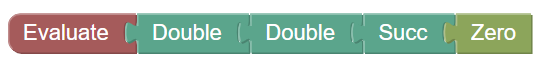
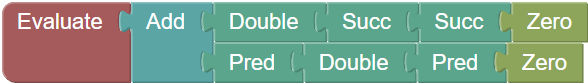
Version ready for review

diff --git a/assets/js/types-and-programming-languages.js b/assets/js/types-and-programming-languages.js
@@ -321,8 +321,9 @@ const workspace = Blockly.inject('blocklyDiv', {toolbox: toolbox});
 // paste the JSON obtained by
 // copy(JSON.stringify(Blockly.serialization.workspaces.save(workspace)))
 const saves = {
+  "load": {"blocks":{"languageVersion":0,"blocks":[{"type":"tpl_typecheck","id":"f!{vc~S?{oN/AN9#-WEd","x":36,"y":43,"inputs":{"PROG":{"block":{"type":"tpl_false","id":"27/Ta`n|}V*B)s7Zr}^V"}}}},{"type":"tpl_typecheck","id":"}jBAI,)Z[-h9^YMj`d.C","x":40,"y":89,"inputs":{"PROG":{"block":{"type":"tpl_succ","id":"Wg.KkAfKbDnbO*$Ju_w)","inputs":{"VALUE":{"block":{"type":"tpl_zero","id":"/lso.r/,iQDh6r/5gmvL"}}}}}}},{"type":"tpl_typecheck","id":"Hp}wuF~]hWLt;*KEhl`?","x":35,"y":137,"inputs":{"PROG":{"block":{"type":"tpl_pred","id":"Kk1[+NpaH;A}IuOQ-KX,","inputs":{"VALUE":{"block":{"type":"tpl_false","id":"eE26RO)YKHQ%Y^MKIx};"}}}}}}},{"type":"tpl_typecheck","id":"/Jw^Q4s6;dX_E%4Mi68P","x":36,"y":189,"inputs":{"PROG":{"block":{"type":"tpl_add","id":"o#6QF^=-D2A2YL[%!+$.","inputs":{"LEFT":{"block":{"type":"tpl_true","id":"w9=@wIVtNi,B=,F7Z:Gy"}},"RIGHT":{"block":{"type":"tpl_zero","id":"|]:[g[PLex#-:KZ(ipHC"}}}}}}},{"type":"tpl_typecheck","id":"I}e~5o62(l[|9{Mo{6~N","x":36,"y":265,"inputs":{"PROG":{"block":{"type":"tpl_ifthenelse","id":"7@@Kk/))h*cE=X9cPt?z","inputs":{"COND":{"block":{"type":"tpl_iszero","id":"@.?y9L(p(syKv6@{p$In","inputs":{"VALUE":{"block":{"type":"tpl_zero","id":",%8_]Q-:eG}?RBI2-Mv8"}}}}},"THEN":{"block":{"type":"tpl_true","id":"O.%EqhW=guWa/}_@VgdO"}},"ELSE":{"block":{"type":"tpl_false","id":"v2HUJJ6V;vD.mXgM@Q6R"}}}}}}},{"type":"tpl_typecheck","id":"fGln6C:MQ^KV,q6^aP-*","x":36,"y":370,"inputs":{"PROG":{"block":{"type":"tpl_ifthenelse","id":"$F%f0%9qx7ZuzYXGNo|m","inputs":{"COND":{"block":{"type":"tpl_pred","id":"rcf`:vl8:5muZ/`Z2R6/","inputs":{"VALUE":{"block":{"type":"tpl_zero","id":"{{*~+KyR_oj(QcEe~DQx"}}}}},"THEN":{"block":{"type":"tpl_zero","id":"+?LdO~Y-p/tJ{aUIk?vf"}},"ELSE":{"block":{"type":"tpl_zero","id":"s(%_?Jh+wkF`7vAV-PBQ"}}}}}}}]}},
   "img-intro":  {"blocks":{"languageVersion":0,"blocks":[{"type":"tpl_typecheck","id":"g[R@z-}PCuS^Y?5zH=Ms","x":61,"y":109,"inputs":{"PROG":{"block":{"type":"tpl_ifthenelse","id":"ZWLi_~J,DIp1f*Nq9(sj","inputs":{"COND":{"block":{"type":"tpl_pred","id":"_F3vx.z_#:ML)J}X:7;t","inputs":{"VALUE":{"block":{"type":"tpl_false","id":"3cV;]X%;!C=8hIM-jvNw"}}}}},"THEN":{"block":{"type":"tpl_zero","id":"%/0xQ~W.z!ss!D{|lA3^"}},"ELSE":{"block":{"type":"tpl_iszero","id":"koB,vwdW]eVDIe,+1f!;","inputs":{"VALUE":{"block":{"type":"tpl_succ","id":"#mLOw6)QZ.EJ^Gr;S!0,","inputs":{"VALUE":{"block":{"type":"tpl_true","id":"3F4?/@wX2Q|NGLYMho.%"}}}}}}}}}}}}}]}},
-  "example1": {"blocks":{"languageVersion":0,"blocks":[{"type":"tpl_evaluate","id":"0!AojB:vPD;(VTk4PZ[;","x":36,"y":36,"inputs":{"PROG":{"block":{"type":"tpl_double","id":"k~vQB/7{99jlBaP~C|:0","inputs":{"VALUE":{"block":{"type":"tpl_double","id":"2XfG2m[+0$1NGk;q;THc","inputs":{"VALUE":{"block":{"type":"tpl_succ","id":":Rp*[o2%YV:)!Iq3cl=x","inputs":{"VALUE":{"block":{"type":"tpl_zero","id":"K,Zsn!RDuHfg#wQnHua="}}}}}}}}}}}}}]}},
+  "example1": {"blocks":{"languageVersion":0,"blocks":[{"type":"tpl_evaluate","id":"0!AojB:vPD;(VTk4PZ[;","x":24,"y":43,"inputs":{"PROG":{"block":{"type":"tpl_add","id":"61[SIVubQGcX@RGbL._R","inputs":{"LEFT":{"block":{"type":"tpl_double","id":"l%@5QGn|nri?cs^q{tv;","inputs":{"VALUE":{"block":{"type":"tpl_succ","id":"ZxJpdCbE7{r!|El=imB2","inputs":{"VALUE":{"block":{"type":"tpl_succ","id":"?(vrZcaCNhCJ]Gk=[TB9","inputs":{"VALUE":{"block":{"type":"tpl_zero","id":":Gb~|QCi|;d492Y,BR^-"}}}}}}}}}}},"RIGHT":{"block":{"type":"tpl_pred","id":"FBfIe_k_Xef4(R!HrJ8V","inputs":{"VALUE":{"block":{"type":"tpl_double","id":"LntSNH-w9-Szt)!aR..)","inputs":{"VALUE":{"block":{"type":"tpl_pred","id":"$U7*B}XkZT$hh,A)A`.o","inputs":{"VALUE":{"block":{"type":"tpl_zero","id":"WB~nD/066xffC|4krL5?"}}}}}}}}}}}}}}}}]}},
   "example2": {"blocks":{"languageVersion":0,"blocks":[{"type":"tpl_evaluate","id":"0!AojB:vPD;(VTk4PZ[;","x":0,"y":23,"inputs":{"PROG":{"block":{"type":"tpl_ifthenelse","id":"x|}Yla-?nfhKP270$LBL","inputs":{"COND":{"block":{"type":"tpl_iszero","id":"vCWaJokC_JWP+p0erZ:{","inputs":{"VALUE":{"block":{"type":"tpl_add","id":";NAvze[|j)qn5HYN./XZ","inputs":{"LEFT":{"block":{"type":"tpl_succ","id":"Kwys.Q:D=X,_[?wZJ4!7","inputs":{"VALUE":{"block":{"type":"tpl_succ","id":"j9qZd98o`U3+3dZ@vw$Y","inputs":{"VALUE":{"block":{"type":"tpl_zero","id":"LED^,.$czD^^mPegb90n"}}}}}}}},"RIGHT":{"block":{"type":"tpl_double","id":"zvhJ+*KLuMD}eqp/lZsw","inputs":{"VALUE":{"block":{"type":"tpl_pred","id":"=YmUnfmCQWnoYW_wo1MC","inputs":{"VALUE":{"block":{"type":"tpl_zero","id":"=bCPeW#Ld7mgX*{I^C+l"}}}}}}}}}}}}}},"THEN":{"block":{"type":"tpl_ifthenelse","id":".3@VoN.Pg,$wgsV51:[x","inputs":{"COND":{"block":{"type":"tpl_ifthenelse","id":"i7C+x;_0C6;~@=:LET,+","inputs":{"COND":{"block":{"type":"tpl_false","id":"h3rgWtQq`@!3X4m=^=T7"}},"THEN":{"block":{"type":"tpl_true","id":"lRUMJlJEfBxw[_IW+o_*"}},"ELSE":{"block":{"type":"tpl_false","id":"tnL-!9:}Y:=Y31^Cru}9"}}}}},"THEN":{"block":{"type":"tpl_zero","id":"5ugQ}yI,uM!4[iTw%8a_"}},"ELSE":{"block":{"type":"tpl_double","id":"Q]H!J3Q7[|*2y/~7v`}k","inputs":{"VALUE":{"block":{"type":"tpl_double","id":"m)lKgc+%NmD5B9Les~fB","inputs":{"VALUE":{"block":{"type":"tpl_succ","id":"8c%{E|,jNhaJ1::k-I$n","inputs":{"VALUE":{"block":{"type":"tpl_zero","id":"V#+2o_Bod^YbsW72cM#|"}}}}}}}}}}}}}},"ELSE":{"block":{"type":"tpl_zero","id":"zK-:p#at1Ay=+I2CD*A3"}}}}}}}]}}
 };
 
@@ -338,6 +339,7 @@ function loadExamples() {
       document.getElementById("blocklyDiv").scrollIntoView();
     }
   }
+  Blockly.serialization.workspaces.load(saves["load"], workspace);
 }
 // Run loadExamples when the page finished loading
 document.addEventListener("DOMContentLoaded", loadExamples);
@@ -444,10 +446,16 @@ function ExpressionToBlock(input, expr) {
 
 document.querySelector("#Evaluate").onclick = function() {
   var x = workspace.getTopBlocks();
+  var evaluated = false;
+  var hasEvaluateBlock = false;
+  var evaluateBlockAreFinal = true;
   for(var i = 0; i < x.length; i++) {
     if(x[i].type == "tpl_evaluate") {
+      hasEvaluateBlock = true;
       var expr = eval(Blockly.JavaScript.blockToCode(x[i]));
       if(typecheck(expr, x[i].id) && !_module.__default.IsFinalValue(expr)) {
+        evaluateBlockAreFinal = false;
+        evaluated = true;
         //Delete the previous PROG input
         var input = x[i].getInput('PROG');
         if(input.connection.isConnected()) {
@@ -460,6 +468,13 @@ document.querySelector("#Evaluate").onclick = function() {
         var newBlock = ExpressionToBlock(input, oneStep);
         console.log("Added ", newBlock);
       }
+    }
+  }
+  if(!evaluated) {
+    if(!hasEvaluateBlock) {
+      alert("No program to evaluate! Add a 'Evaluate' block or click on one example below.");
+    } else {
+      alert("All evaluate blocks either don't type check or have final values!");
     }
   }
 }

diff --git a/builders/types-and-programming-languages.js b/builders/types-and-programming-languages.js
@@ -61,6 +61,7 @@ function ProcessOneFile(fileName, fileTarget, regenerate,) {
     return;
   }
   var dafnyEquivalent = DafnyEquivalent(fileName, fileContent);
+  console.log("Verifying and building...");
   var exit_code = RunCommands(dafnyEquivalent, regenerate, fileTarget);
   if(!regenerate || exit_code == 2) {
     if(regenerate) {
@@ -174,7 +175,11 @@ function RunCommands(code, regenerate, fileTarget) {
   } finally {
     fs.unlinkSync(tmpFile);
   }
-
+  if(!fs.existsSync(buildFile)) {
+    console.log(`Build file ${buildFile} does not exist`);
+    exit_code = 2;
+    return exit_code;
+  }
   var buildContent = fs.readFileSync(buildFile, "utf-8");
   if(fs.existsSync(outFile)) {
     var outContent = fs.readFileSync(outFile, "utf-8");
